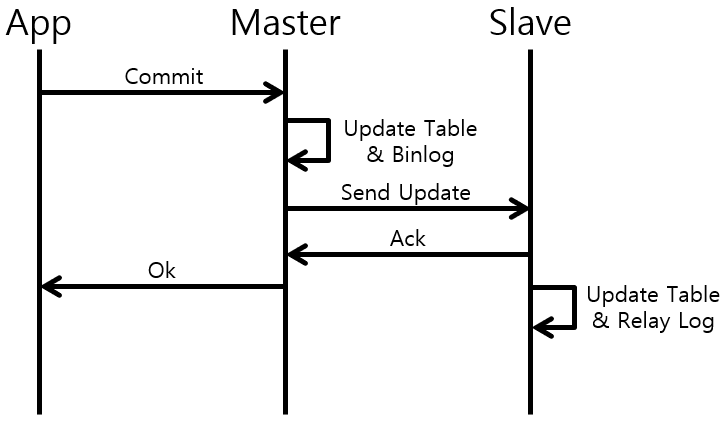
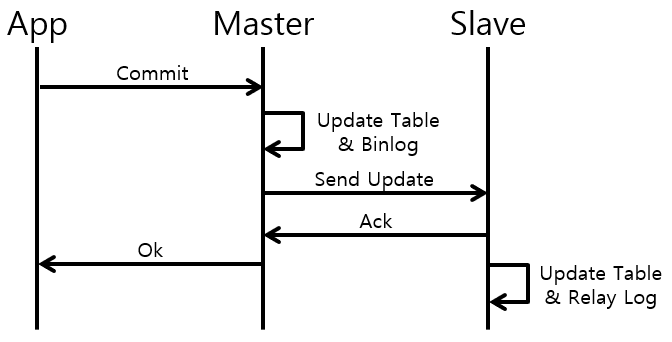
Update MySQL replication

diff --git a/_docs/theory_analysis/MySQL_Replication.md b/_docs/theory_analysis/MySQL_Replication.md
@@ -11,13 +11,13 @@ MySQL의 HA(High Availabilty)를 위한 Replicaiton 기법을 분석한다.
 
 ### 1. Async Replication
 
-![]({{site.baseurl}}/images/theory_analysis/MySQL_Replication/Async_Replication.PNG){: width="500px"}
+![]({{site.baseurl}}/images/theory_analysis/MySQL_Replication/Async_Replication.PNG){: width="550px"}
 
 ### 2. Semi-sync Replication
 
-![]({{site.baseurl}}/images/theory_analysis/MySQL_Replication/Semi-sync_Replication_Commit.PNG){: width="500px"}
+![]({{site.baseurl}}/images/theory_analysis/MySQL_Replication/Semi-sync_Replication_Commit.PNG){: width="550px"}
 
-![]({{site.baseurl}}/images/theory_analysis/MySQL_Replication/Semi-sync_Replication_Sync.PNG){: width="500px"}
+![]({{site.baseurl}}/images/theory_analysis/MySQL_Replication/Semi-sync_Replication_Sync.PNG){: width="550px"}
 
 ### 3. 참조
 
